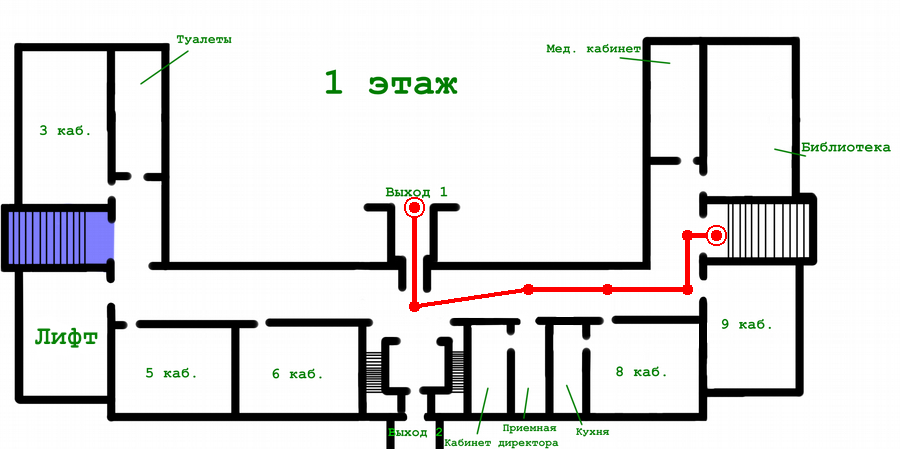
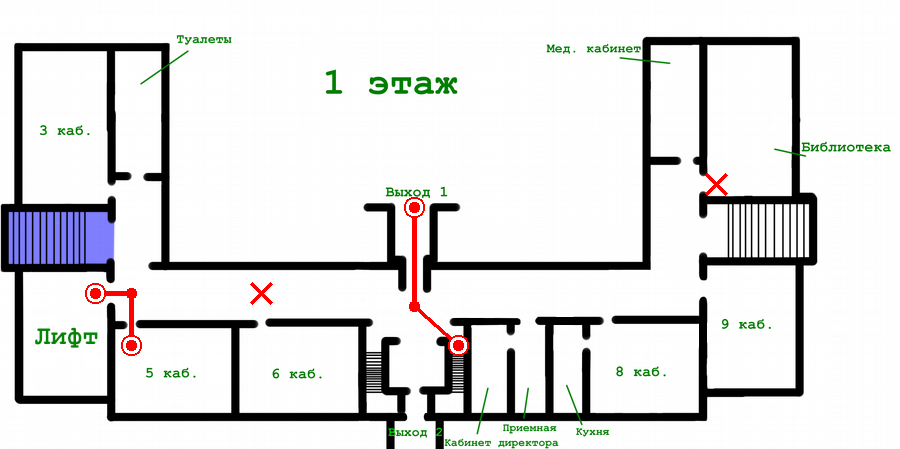
проект добавлены функции использования лифтов, эскалаторов и лестниц добалено удаление и восстановление точек

diff --git a/QT.py b/QT.py
@@ -5,7 +5,8 @@ import xlrd
 from math import sqrt
 import sqlite3
 from PyQt5.QtWidgets import QTableWidgetItem, QPushButton, \
-    QLabel, QApplication, QMainWindow, QComboBox, QColorDialog, QCheckBox
+    QLabel, QApplication, QMainWindow, QComboBox, QColorDialog, \
+    QCheckBox, QInputDialog
 from PyQt5 import uic
 from PyQt5.QtGui import QPixmap
 from PyQt5.QtCore import Qt, QEvent  # библиотеки
@@ -20,6 +21,7 @@ class MyWidget(QMainWindow):
         self.fl, self.fl1 = True, True
         self.flWhBl = False
         self.inf = 10 ** 10
+        self.deletePoints = []
         self.dic = {
             0: ['0.1', '0.2', '0.3', '0.4', '0.5', '0.6', '0.7', '0.8',
                 '0.9', '0.10', '0.11', 'Лифт 0', 'Кладовая',
@@ -75,7 +77,9 @@ class MyWidget(QMainWindow):
                              'Лифт 4',
                              ]
         self.spisNumElev = []
+        self.allNums = []
         self.mainScreen()
+        self.clearAllFocus()
 
     def inputIn(self):  # считываем из различных файлов нужную информацию
         b = xlrd.open_workbook("data.xls")  # ЭКСЕЛЬ?!
@@ -132,6 +136,14 @@ class MyWidget(QMainWindow):
                                     '4 этажПланЭвакуацииЧБ.png']
         #     Наколдовали основных строк, словарей и констант
 
+        self.allNums.extend([self.name_num[i] for i in self.spisNameStairs])
+        self.allNums.extend([self.name_num[i] for i in self.spisNameEscal])
+        self.allNums.extend([self.name_num[i] for i in self.spisNameElev])
+        self.allNums.extend([self.name_num[i] for i in ['Лестница 0.3', 'Лестница 0.4',
+                                                        'Лестница 0.3.5', 'Лестница 1.3',
+                                                        'Лестница 1.4']])
+        self.clearAllFocus()
+
     def mainScreen(self):  # кнопочки :>
         self.inputIn()
         self.resize(950, 580)
@@ -158,6 +170,14 @@ class MyWidget(QMainWindow):
         self.lower.resize(50, 50)
         self.lower.clicked.connect(self.lift)
         self.lower.installEventFilter(self)
+        self.dell = QPushButton('D', self)
+        self.dell.move(0, 150)
+        self.dell.resize(50, 50)
+        self.dell.clicked.connect(self.deleteP)
+        self.recc = QPushButton('R', self)
+        self.recc.move(0, 200)
+        self.recc.resize(50, 50)
+        self.recc.clicked.connect(self.recoverP)
         self.escape = QPushButton('План эвакуации', self)
         self.escape.move(850, 0)
         self.escape.resize(100, 50)
@@ -235,6 +255,7 @@ class MyWidget(QMainWindow):
         self.elevators.stateChanged.connect(self.widthoutElev)
         # self.elevators.setDisabled(True)
         self.go.click()
+        self.clearAllFocus()
 
     def withoutStairs(self):
         if self.stairs.isChecked():
@@ -242,6 +263,7 @@ class MyWidget(QMainWindow):
         else:
             self.spisNumStairs = [self.name_num[i] for i in self.spisNameStairs]
         self.go.click()
+        self.clearAllFocus()
 
     def withoutEscal(self):
         if self.escalators.isChecked():
@@ -249,6 +271,7 @@ class MyWidget(QMainWindow):
         else:
             self.spisNumEscal = [self.name_num[i] for i in self.spisNameEscal]
         self.go.click()
+        self.clearAllFocus()
 
     def widthoutElev(self):
         if self.elevators.isChecked():
@@ -256,6 +279,7 @@ class MyWidget(QMainWindow):
         else:
             self.spisNumElev = [self.name_num[i] for i in self.spisNameElev]
         self.go.click()
+        self.clearAllFocus()
 
     def blackWhite(self):  # работа с переходом из цветного в чб
         if self.flWhBl:
@@ -282,6 +306,7 @@ class MyWidget(QMainWindow):
             self.dataIm, self.plansOfescape = \
                 self.plansOfescape[:], self.dataIm[:]
             self.image.setPixmap(QPixmap(self.dataIm[self.where]))
+        self.clearAllFocus()
 
     def hideAll(self):  # прячем все)
         self.changeLv.hide()
@@ -301,6 +326,7 @@ class MyWidget(QMainWindow):
         self.colLine.hide()
         self.image.hide()
         self.info.hide()
+        self.clearAllFocus()
 
     def showAll(self):  # показываем все
         self.changeLv.show()
@@ -320,6 +346,7 @@ class MyWidget(QMainWindow):
         self.colLine.show()
         self.image.show()
         self.info.show()
+        self.clearAllFocus()
 
     def infoAbout(self):  # работа с кнопкой информации
         if self.fl1:
@@ -343,6 +370,7 @@ class MyWidget(QMainWindow):
                 self.lower.show()
                 self.image.show()
                 self.escape.show()
+        self.clearAllFocus()
 
     def getCol(self):  # работа с диалоговым окном для выбора цвета
         color = QColorDialog.getColor()
@@ -368,6 +396,7 @@ class MyWidget(QMainWindow):
             elif self.sender().text() == self.colLine.text():
                 self.color = color.name()
                 self.go.click()
+        self.clearAllFocus()
 
     def alg_Dijkstra(self):  # алгоритм дейкстры
         if self.numSt == self.numFin:
@@ -387,7 +416,8 @@ class MyWidget(QMainWindow):
                 for j in range(n):
                     if ((i not in self.spisNumStairs and j not in self.spisNumStairs) and
                         (i not in self.spisNumEscal and j not in self.spisNumEscal) and
-                        (i not in self.spisNumElev and j not in self.spisNumElev)) and \
+                        (i not in self.spisNumElev and j not in self.spisNumElev) and
+                        (i not in self.deletePoints and j not in self.deletePoints)) and \
                             dist[i] + self.weight[i][j] < dist[j]:
                         dist[j] = dist[i] + self.weight[i][j]
                         prev[j] = i
@@ -400,20 +430,30 @@ class MyWidget(QMainWindow):
                 self.path.append(self.numFin)
                 self.numFin = prev[self.numFin]
             self.path = self.path[::-1]
+        self.clearAllFocus()
 
     def drawWay(self, lv):  # работа с изображением, рисовка линии маршрута
         im = Image.open(self.dataImOrig[lv])
         drawer = ImageDraw.Draw(im)
         z = 5
+        z *= 2
+        for i in self.deletePoints:
+            x, y = self.coords[i]
+            drawer.line((x - z, y - z, x + z, y + z), fill=self.color, width=5)
+            drawer.line((x - z, y + z, x + z, y - z), fill=self.color, width=5)
+        z //= 2
+        spis = [-1, 0]
         for i in range(len(self.mass)):
             x, y = self.coords[self.mass[i]]
             drawer.ellipse(((int(x - z), int(y - z)),
                             (int(x + z), int(y + z))),
                            self.color)
-            if i != len(self.mass) - 1:
+            if i != len(self.mass) - 1 and self.weight[self.mass[i]][self.mass[i + 1]] != self.inf:
                 x1, y1 = self.coords[self.mass[i + 1]]
                 drawer.line((x, y, x1, y1), fill=self.color, width=5)
-        for i in range(-1, 1):
+            if i != len(self.mass) - 1 and self.mass[i] in self.allNums:
+                spis.append(i)
+        for i in spis:
             x, y = self.coords[self.mass[i]]
             z += 5
             drawer.ellipse(((int(x - z), int(y - z)),
@@ -428,6 +468,14 @@ class MyWidget(QMainWindow):
                             (int(x + z), int(y + z))),
                            self.color)
         im.save(self.dataIm[lv], "PNG")
+        self.clearAllFocus()
+
+    def eventFilter(self, obj, event):  # не дает фокусироваться на
+        # комбобоксах, чтобы все горячие клавиши работали
+        if event.type() == QEvent.FocusIn:
+            if obj == self.start or obj == self.finish:
+                self.clearFocus()
+        return super(MyWidget, self).eventFilter(obj, event)
 
     def do(self):  # объединение всех функций для построения пути
         self.numSt, self.numFin = 0, 0
@@ -448,36 +496,50 @@ class MyWidget(QMainWindow):
             im = Image.open(self.dataImOrig[i])
             im.save(self.dataIm[i], "PNG")
         self.image.setPixmap(QPixmap(self.dataIm[self.where]))
+        self.clearAllFocus()
 
     def level(self):  # поиск уровня точки наяала и перенос на данный уровень
         for j in self.dic.keys():
             if self.num_name[self.numSt] in self.dic[j]:
                 self.where = j
                 self.lift()
+                self.clearAllFocus()
                 break
+        self.clearAllFocus()
 
     def keyPressEvent(self, event):  # горячие клавиши
         if event.key() == Qt.Key_W:
             self.higher.click()
-        elif event.key() == Qt.Key_S:
+        if event.key() == Qt.Key_S:
             self.lower.click()
-        elif event.key() == Qt.Key_H:
+        if event.key() == Qt.Key_H:
             self.escape.click()
-        elif event.key() == Qt.Key_G:
+        if event.key() == Qt.Key_G:
             self.go.click()
-        elif event.key() == Qt.Key_I:
+        if event.key() == Qt.Key_I:
             self.info.click()
-        elif event.key() == Qt.Key_B:
+        if event.key() == Qt.Key_B:
             self.blaWhi.click()
+        self.clearAllFocus()
 
-    def eventFilter(self, obj, event):  # не дает фокусироваться на
-        # комбобоксах, чтобы все горячие клавиши работали
-        if event.type() == QEvent.FocusIn:
-            if obj == self.start:
-                self.higher.setFocus()
-            elif obj == self.finish:
-                self.lower.setFocus()
-        return super(MyWidget, self).eventFilter(obj, event)
+    def deleteP(self):
+        try:
+            name, ok_pressed = QInputDialog.getText(self, "Введите название точки, которую нужно удалить",
+                                                    "Введите название точки, которую нужно удалить")
+            if self.name_num[name] not in self.deletePoints:
+                self.deletePoints.append(self.name_num[name])
+        except KeyError:
+            self.deleteP()
+        self.go.click()
+
+    def recoverP(self):
+        try:
+            name, ok_pressed = QInputDialog.getText(self, "Введите название точки, которую нужно восстановить",
+                                                    "Введите название точки, которую нужно восстановить")
+            del self.deletePoints[self.deletePoints.index(self.name_num[name])]
+        except KeyError:
+            self.recoverP()
+        self.go.click()
 
     def lift(self):
         if self.sender().text() == self.higher.text():
@@ -492,6 +554,7 @@ class MyWidget(QMainWindow):
             self.higher.setDisabled(False)
             self.lower.setDisabled(False)
         self.image.setPixmap(QPixmap(self.dataIm[self.where]))
+        self.clearAllFocus()
 
     def run(self):  # работа с режимом плана эвакуации
         if self.fl:
@@ -512,6 +575,10 @@ class MyWidget(QMainWindow):
         self.dataIm, self.plansOfescape = \
             self.plansOfescape[:], self.dataIm[:]
         self.image.setPixmap(QPixmap(self.dataIm[self.where]))
+        self.clearAllFocus()
+
+    def clearAllFocus(self):
+        self.clearFocus()
 
 
 def except_hook(cls, exception, traceback):  # луч света в этом
